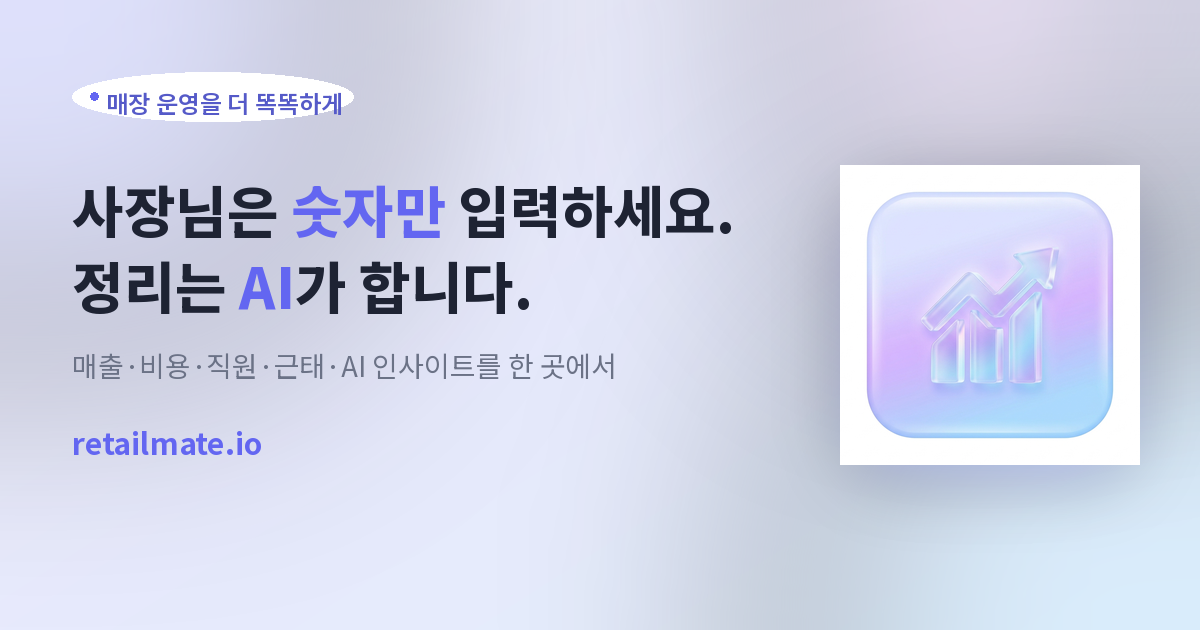
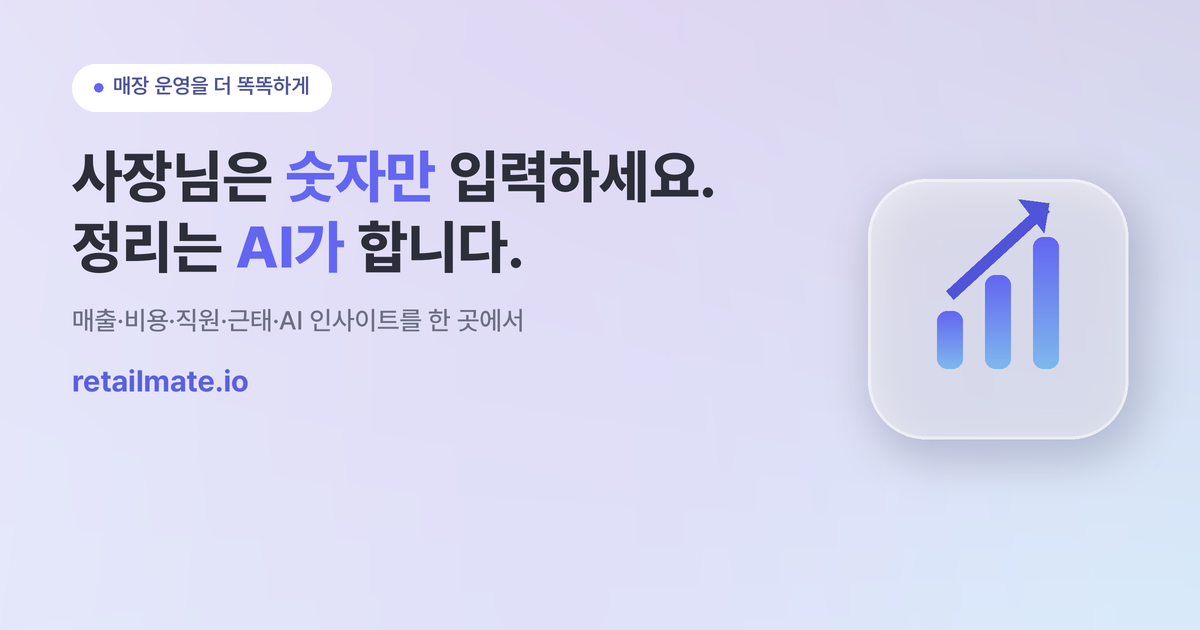
카카오 OG 배너 디자인 결함 수정: 아이콘 흰 박스 제거(프로스트 글래스+Aurora 차트) + 배지 알약 문구비율 정상화 + og?v=3(새 공유 즉시 반영)

diff --git a/src/app/layout.tsx b/src/app/layout.tsx
@@ -4,7 +4,7 @@ import { InstallPromptBanner } from '@/components/common/InstallPromptBanner';
 import { ServiceWorkerRegister } from '@/components/common/ServiceWorkerRegister';
 
 const SITE_URL = 'https://retailmate.io';
-const OG_IMAGE = `${SITE_URL}/og/retailmate-og.png?v=2`;
+const OG_IMAGE = `${SITE_URL}/og/retailmate-og.png?v=3`;
 
 const TITLE = '리테일메이트 | 자영업자 올인원 플랫폼';
 const DESCRIPTION =